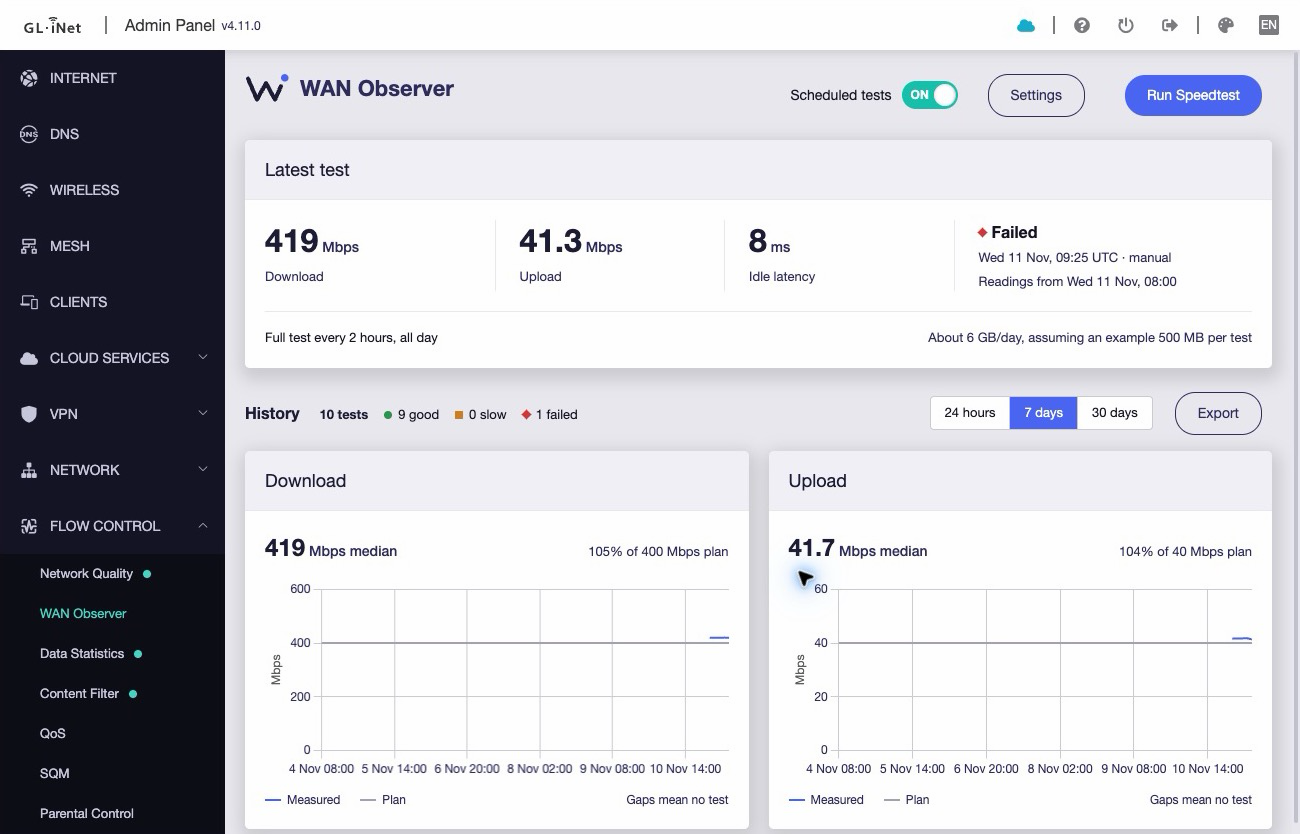
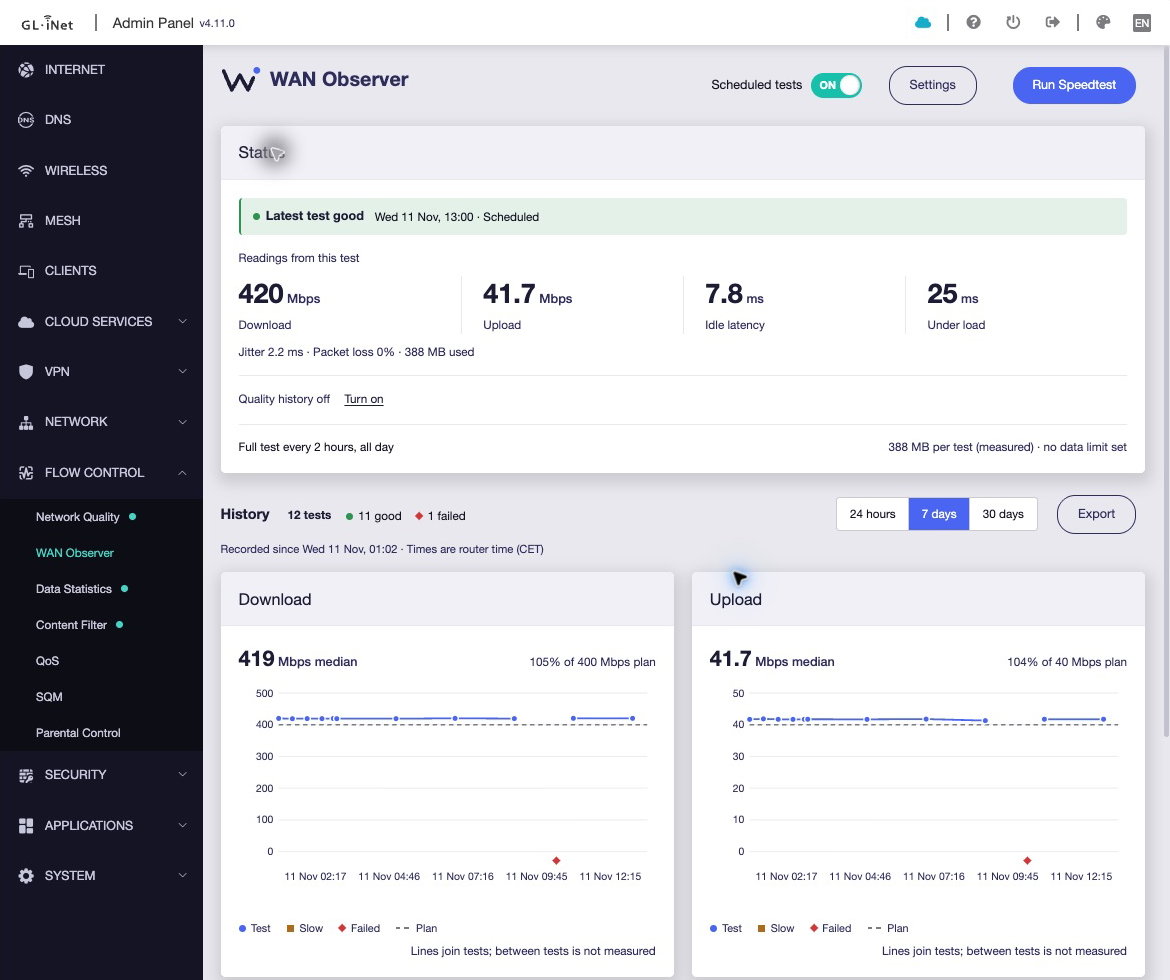
Refresh public gallery with verified 0.5.0 Flint captures

diff --git a/docs/assets/README.md b/docs/assets/README.md
@@ -2,6 +2,6 @@
 
 The WAN Observer symbol and composition are original artwork created for this project. Copyright © 2026 Danijel Dedic, under the repository’s MIT license. The wordmark uses outlined Manrope lettering. Its font license is retained in MANROPE-OFL.txt; no runtime font or external resource is required by the SVGs.
 
-Screenshots were captured from WAN Observer running on a GL.iNet Flint 2 with firmware 4.11.0 on 11 November 2026, with the owner's explicit approval for public use. They show the actual native dashboard and settings, with no demo overlays. Only the application area was retained; browser tabs, address bar and bookmarks are excluded. Displayed measurement values were not altered.
+Screenshots were captured from WAN Observer running on a GL.iNet Flint 2 with firmware 4.11.0 and WAN Observer 0.5.0-1 on 11 November 2026, with the owner's explicit approval for public use. They show the actual native dashboard and settings, with no demo overlays. Only the application area was retained; browser tabs, address bar and bookmarks are excluded. Displayed measurement values were not altered. The dashboard was captured at 90% browser zoom to frame both charts; settings were captured at 100%. Browser zoom was restored afterward.
 
 Do not attach personal or customer screenshots without authorization. Keep credentials and network identifiers out of public captures.

diff --git a/README.md b/README.md
@@ -70,7 +70,7 @@ Keep a private backup before upgrading or removing packages; see [preservation a
 
 | Component | Status |
 | --- | --- |
-| GL.iNet SDK4 plugin (`wan-observer-glinet` 0.5.0) | New interface verified offline; earlier 0.4.5-3 installed on GL-MT6000 (Flint 2), firmware 4.11.0. Current screenshots show the earlier interface. |
+| GL.iNet SDK4 plugin (`wan-observer-glinet` 0.5.0) | 0.5.0-1 installed and checked on GL-MT6000 (Flint 2), firmware 4.11.0; screenshots show the current native dashboard and settings. |
 | Core collector/CLI (`wan-observer`) | Synthetic offline tests and Flint 2 smoke checks; not universal firmware validation |
 | Other OpenWrt builds / SDK package recipe | Not yet validated across firmware releases |
 | Local desktop preview (`tools/preview.py`) | Developer-only tool |

diff --git a/docs/TECHNICAL.md b/docs/TECHNICAL.md
@@ -157,7 +157,7 @@ The bundled UI uses jsPDF and esbuild-generated third-party license notices. Pre
 | Stage | Status |
 | --- | --- |
 | Normalize existing results, bounded history, CSV | Available; synthetic tests and hardware smoke test |
-| GL.iNet SDK4 router dashboard and direct PDF | 0.5.0 interface verified offline; earlier versions checked on Flint 2 firmware 4.11.0 |
+| GL.iNet SDK4 router dashboard and direct PDF | 0.5.0-1 installed and checked on Flint 2 firmware 4.11.0; 98 Python/Lua and 48 JavaScript tests pass |
 | Opt-in collection with adaptive follow-ups | Count caps and optional CLI byte start guard; partial accounting |
 | Disposable local dashboard and browser printing | Developer-only |
 | OpenWrt SDK build and package lifecycle | Not yet verified |
